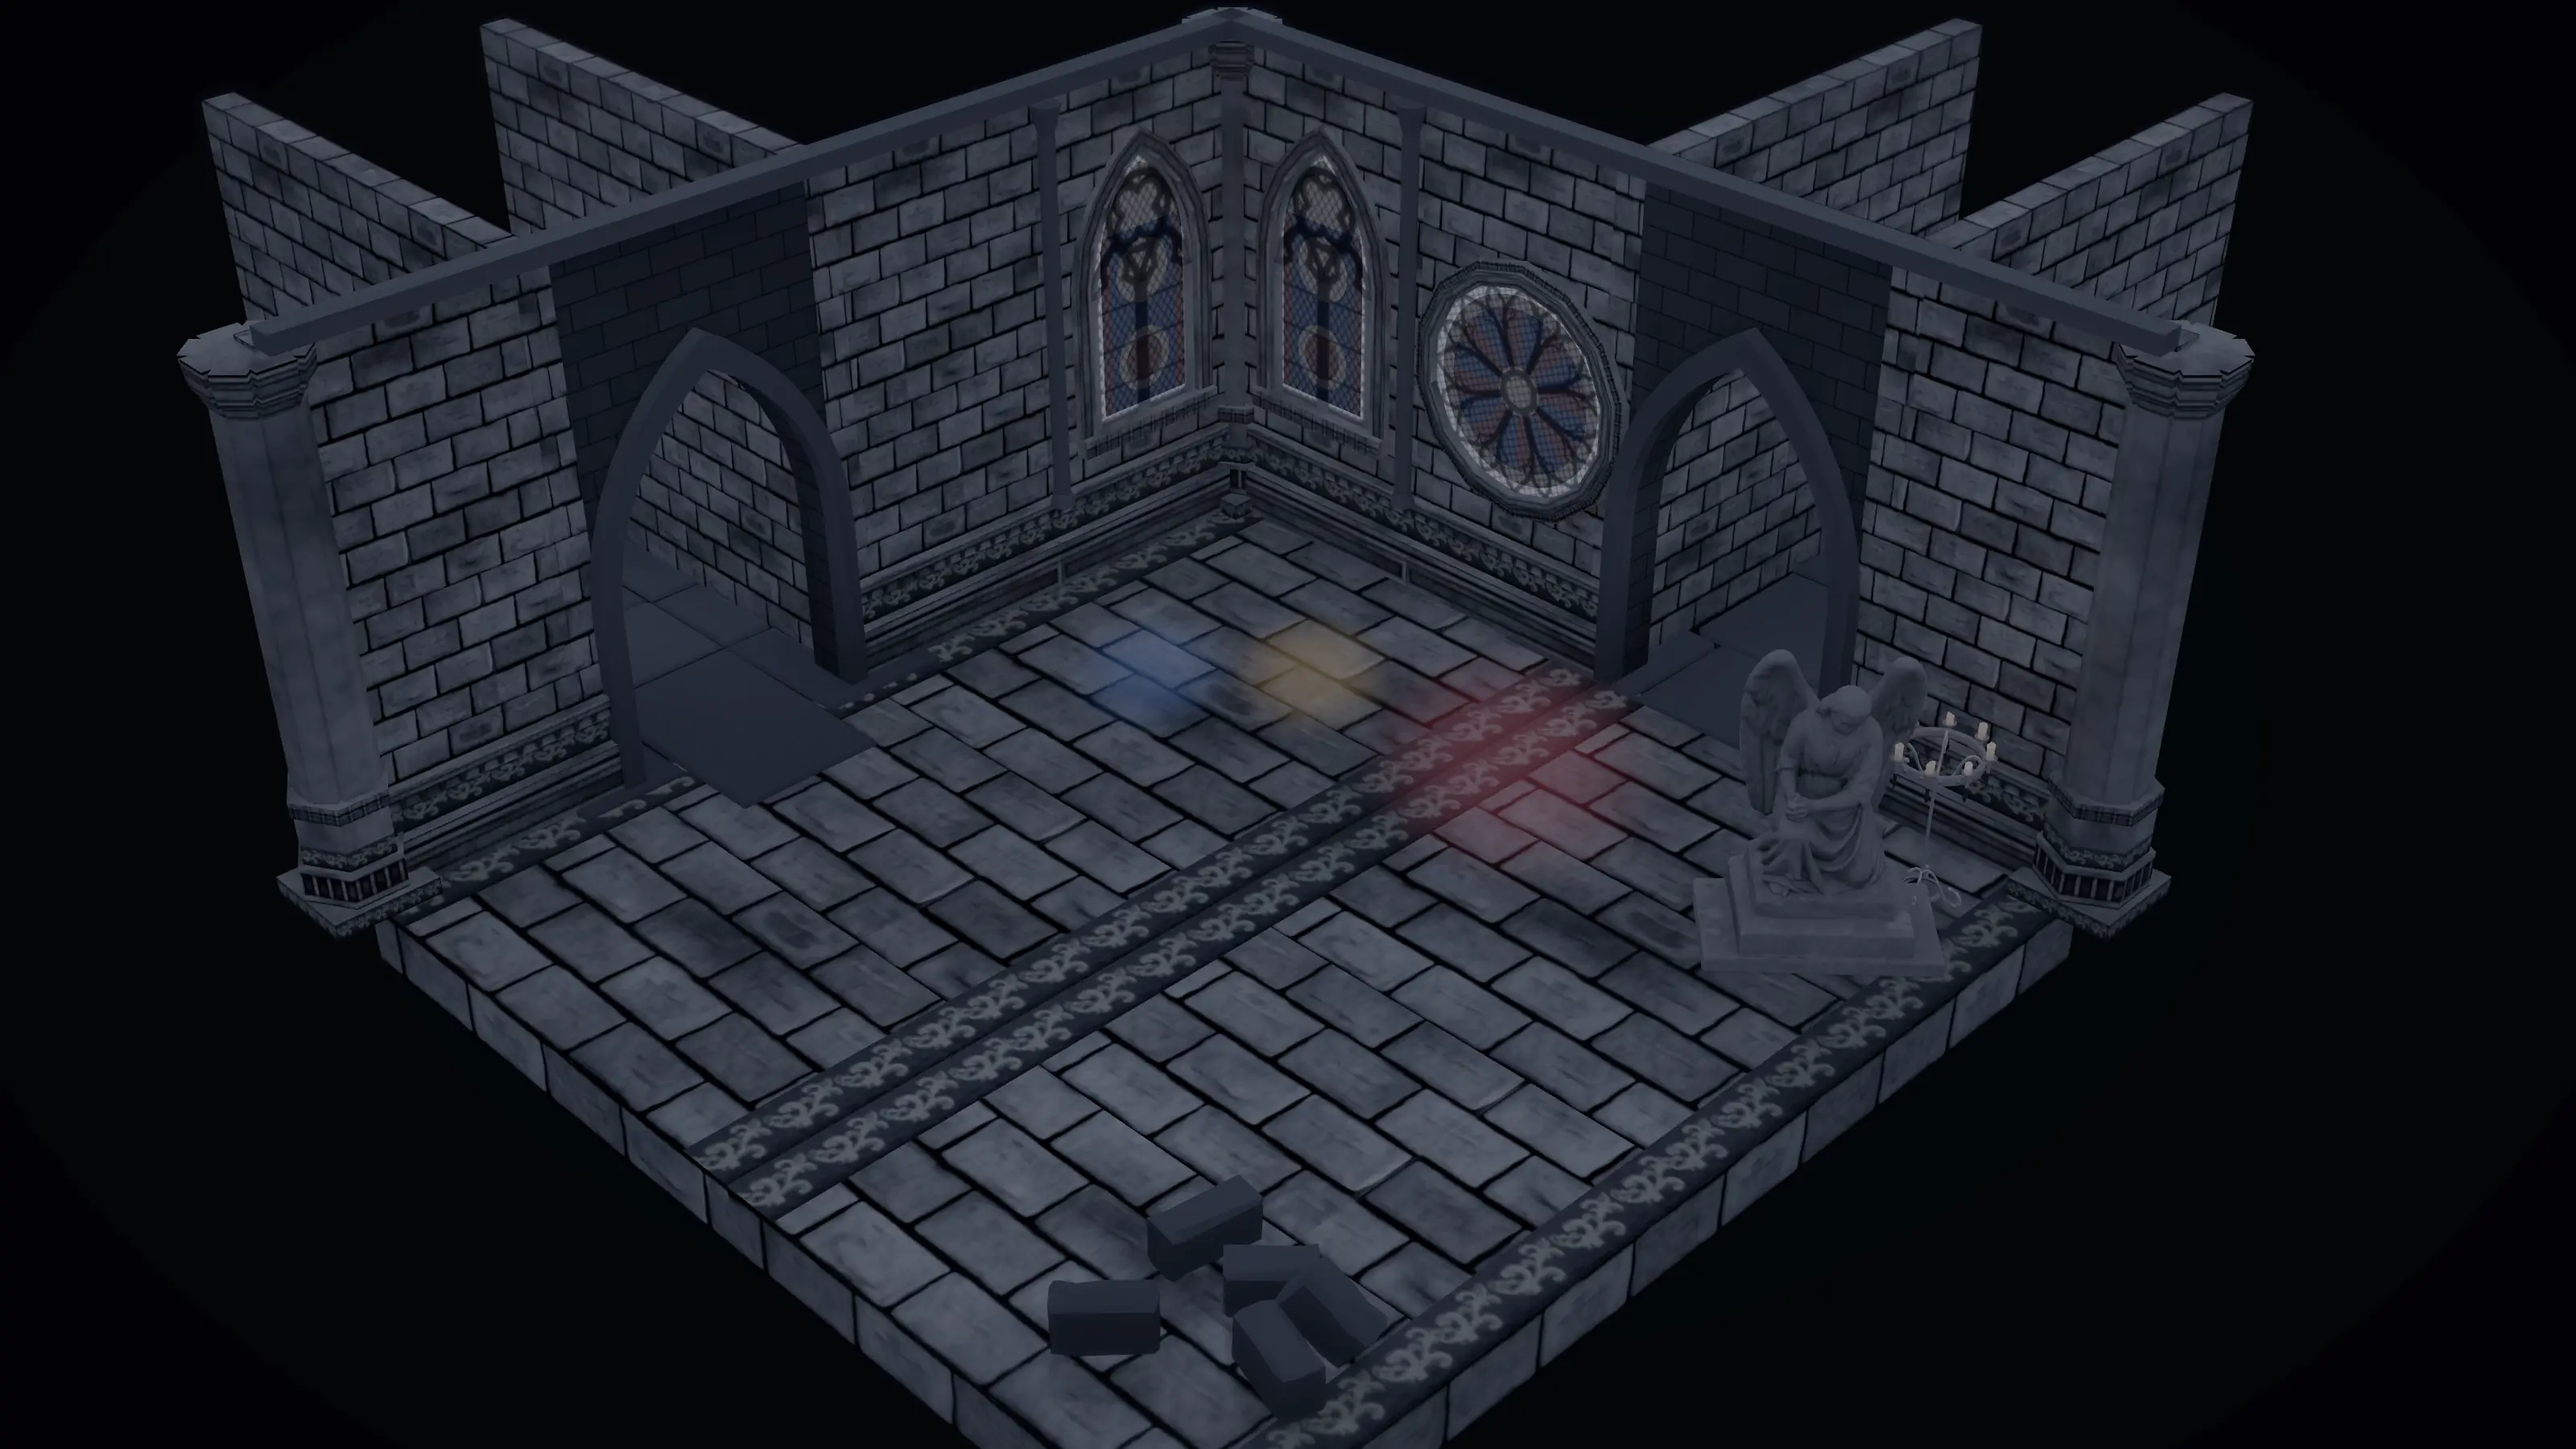
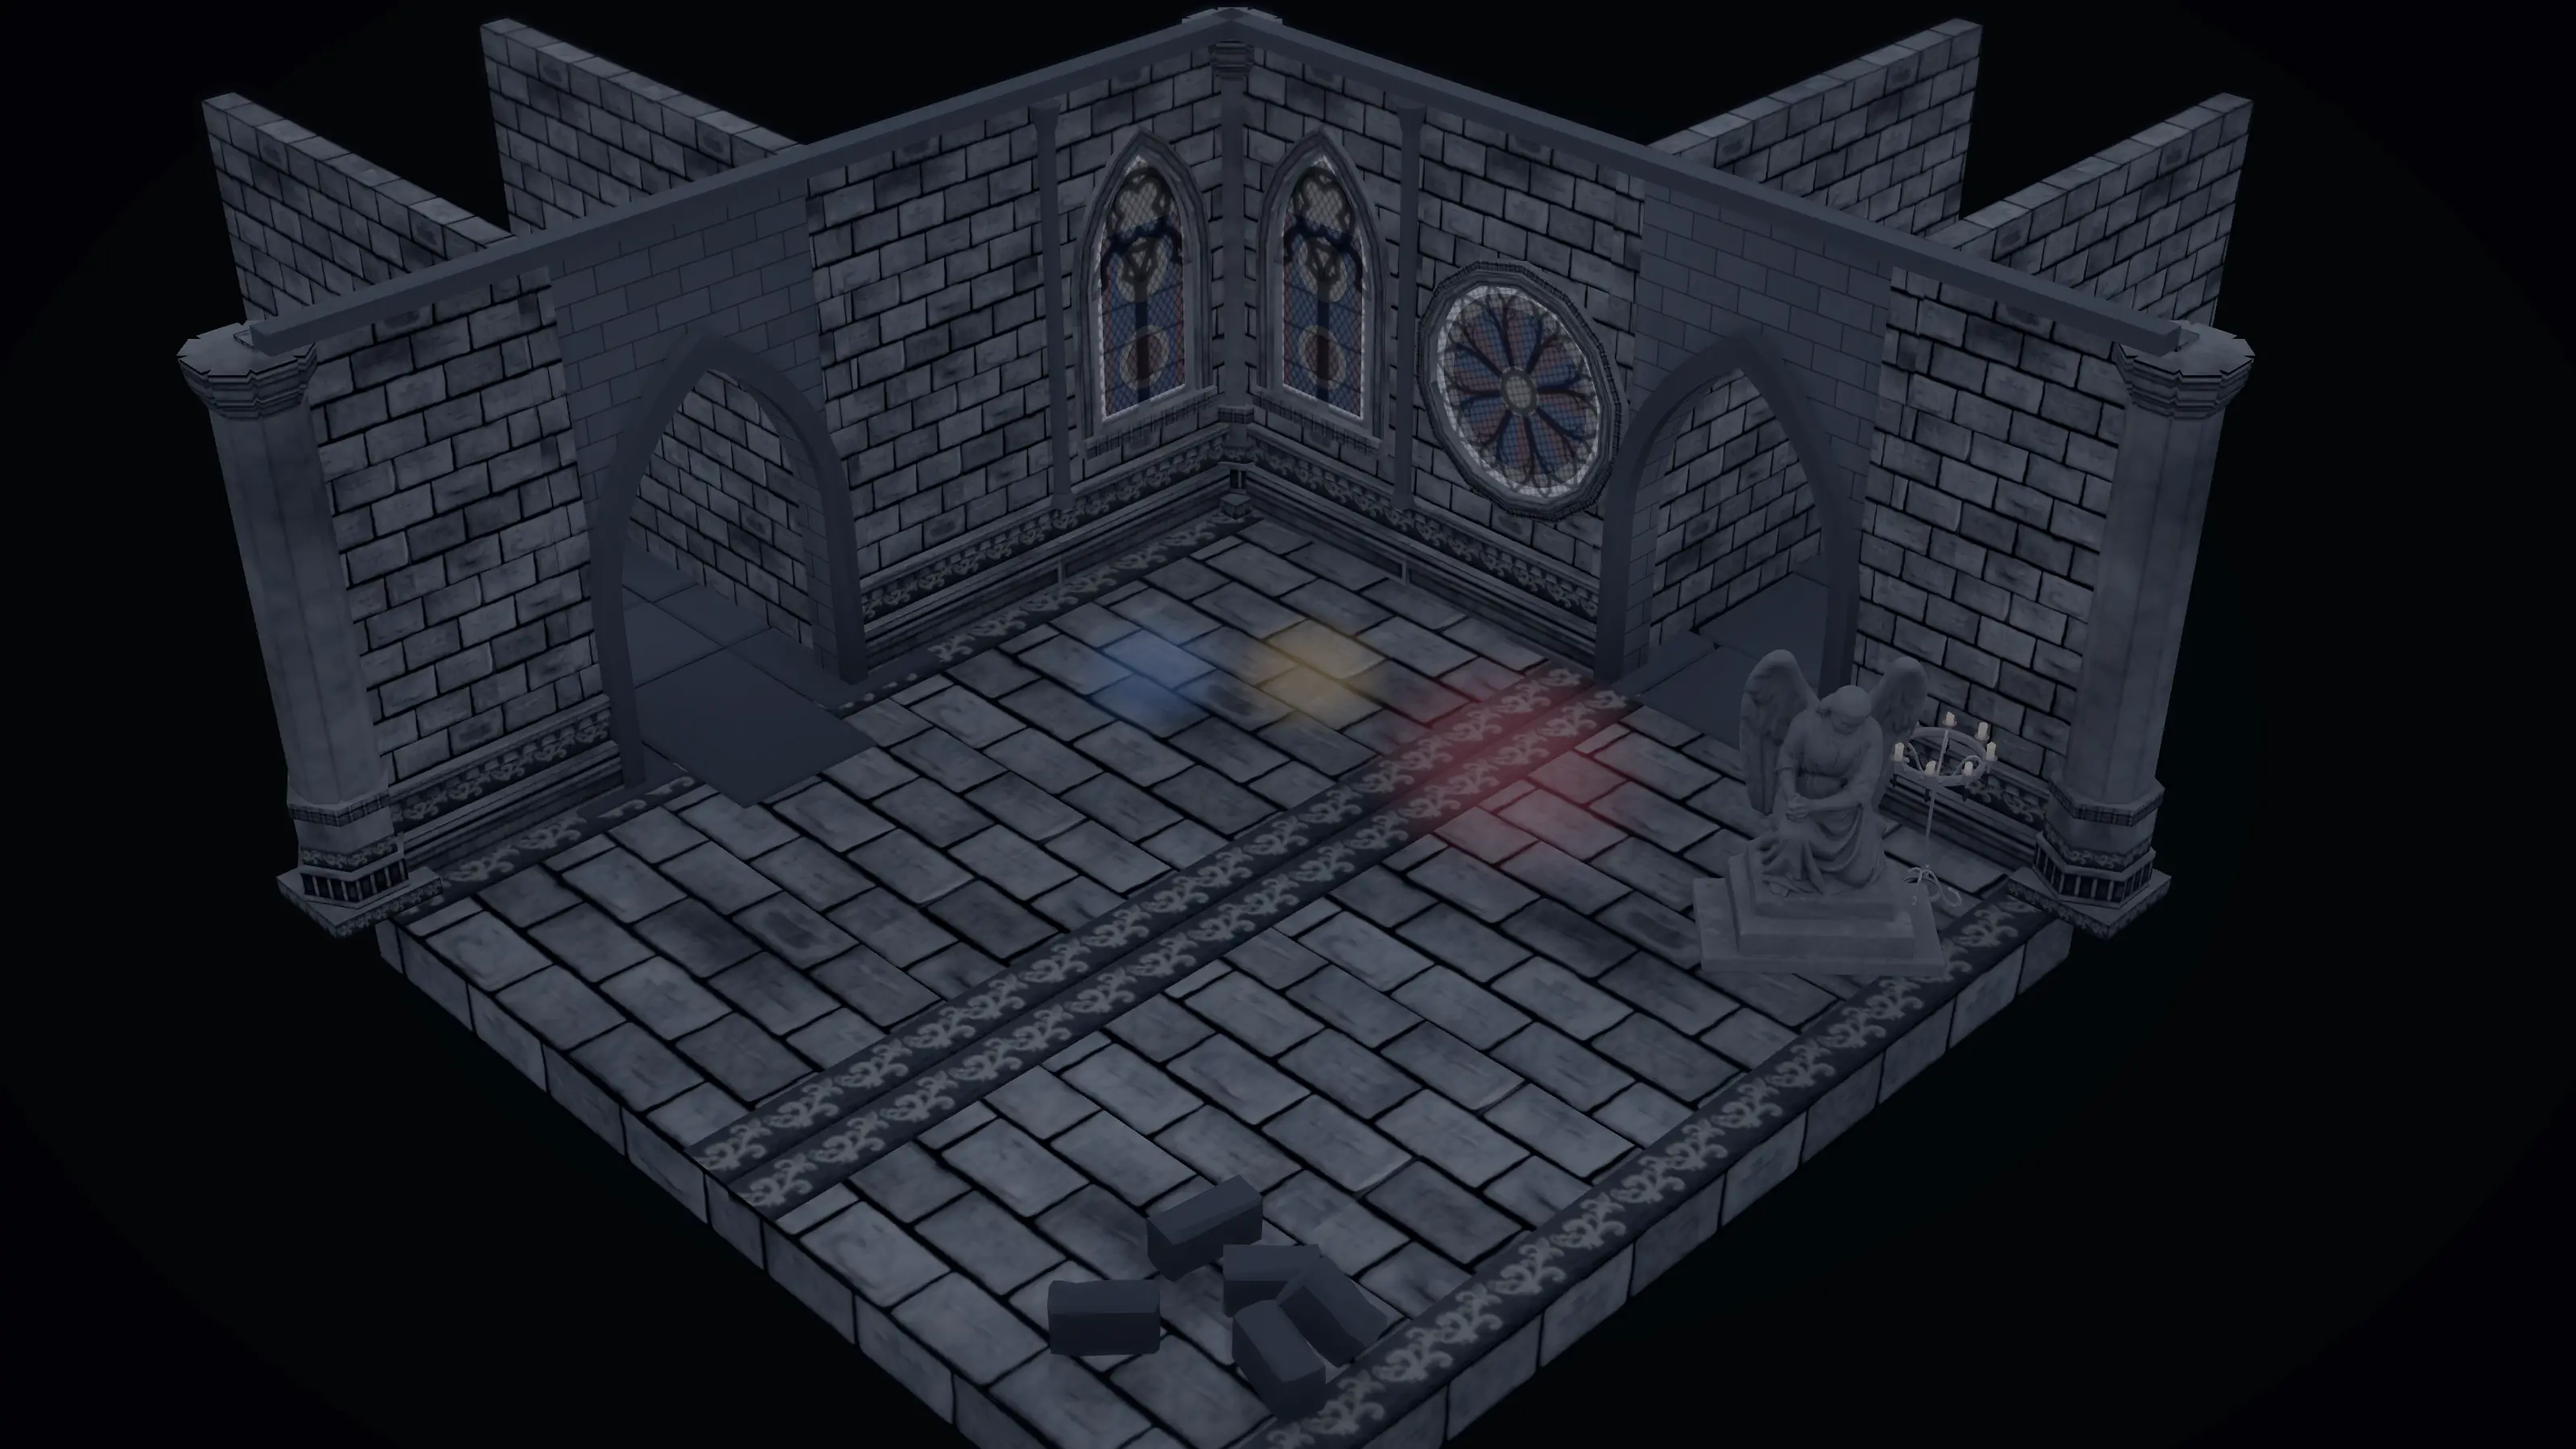
Lift the cathedral's coded stone in ruin to sit with the kit brick
It read a quarter as bright as the brick beside it in the moonlit pictures. Region 4 pictures recaptured.

Changed region(s): [[0.625, 0.1244, 0.75, 0.4667], [0.1875, 0.1244, 0.3438, 0.3422], [0.3125, 0.3422, 0.3438, 0.4667]]

diff --git a/apps/web/src/world/kit/regionMaterials.ts b/apps/web/src/world/kit/regionMaterials.ts
@@ -129,7 +129,9 @@ const REGION_4: Record<string, Swatch> = {
   Sandstone: { ruined: "#5c5e64", restored: "#C2A57E", roughness: 0.95, aged: true },
   // Code-made walls beside the kit's (the crossing halls' doorway bays): laid in the same courses as
   // the kit's trim sheet, as dark as its stone reads, so a doorway bay is wall, not a flat panel.
-  Ashlar: { ruined: "#505257", restored: "#8f7b60", roughness: 0.95, aged: true, coursed: [0.2, 0.42] },
+  // Ruined, it read a quarter of the kit brick's brightness beside it (measured in the moonlit
+  // pictures, 2026-11-11): lifted to read just under the brick, as it does restored.
+  Ashlar: { ruined: "#73757c", restored: "#8f7b60", roughness: 0.95, aged: true, coursed: [0.2, 0.42] },
   Leaf_Texture: { ruined: "#505259", restored: "#b69a74", roughness: 0.95, aged: true },
   Green: { ruined: "#505259", restored: "#b69a74", roughness: 0.95, aged: true },
   Earth: { ruined: "#1f2128", restored: "#2e261e", roughness: 1, aged: true },
